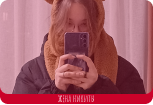
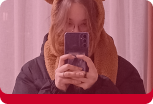
final

diff --git a/ksy/ksy.html b/ksy/ksy.html
@@ -15,7 +15,7 @@
     </header>
     <main>
         <div class="text">
-            Ксюша, ты самое чудесное, что было в моей жизни, эта открытка - знак моей любви к тебе. В этот день хочу задать тебе один главный вопрос: "ТЫ БУДЕШЬ МОЕЙ ВАЛЕНТИНКОЙ?". &#706;3
+            Ксюша, ты самое чудесное, что было в моей жизни, эта открытка - знак моей любви к тебе. Я тебя люблю. В этот день хочу задать тебе один главный вопрос: "ТЫ БУДЕШЬ МОЕЙ ВАЛЕНТИНКОЙ?". &#706;3
         </div>
         <div class="img">
             <video src="img/123.mp4" controls width="200px" height="30%"></video>

diff --git a/index.html b/index.html
@@ -18,11 +18,13 @@
             <div class="card">
                 <a href="tanya/tanya.html">
                     <img src="img/Group 6.png" alt="жена никиты">
+                    <span>Жена Никиты</span>
                 </a>
             </div>
             <div class="card">
                 <a href="ksy/ksy.html">
                     <img src="img/Group 7.png" alt="жена димы">
+                    <span>Жена Димы</span>
                 </a>
             </div>
         </div>

diff --git a/style.css b/style.css
@@ -29,4 +29,12 @@ main{
 a{
     width: 153px;
     display: block;
+    text-decoration: none;
+}
+span{
+    position: relative;
+    bottom: 21px;
+    left: 60px;
+    font-size: 10px;
+    color: #fff;
 }
